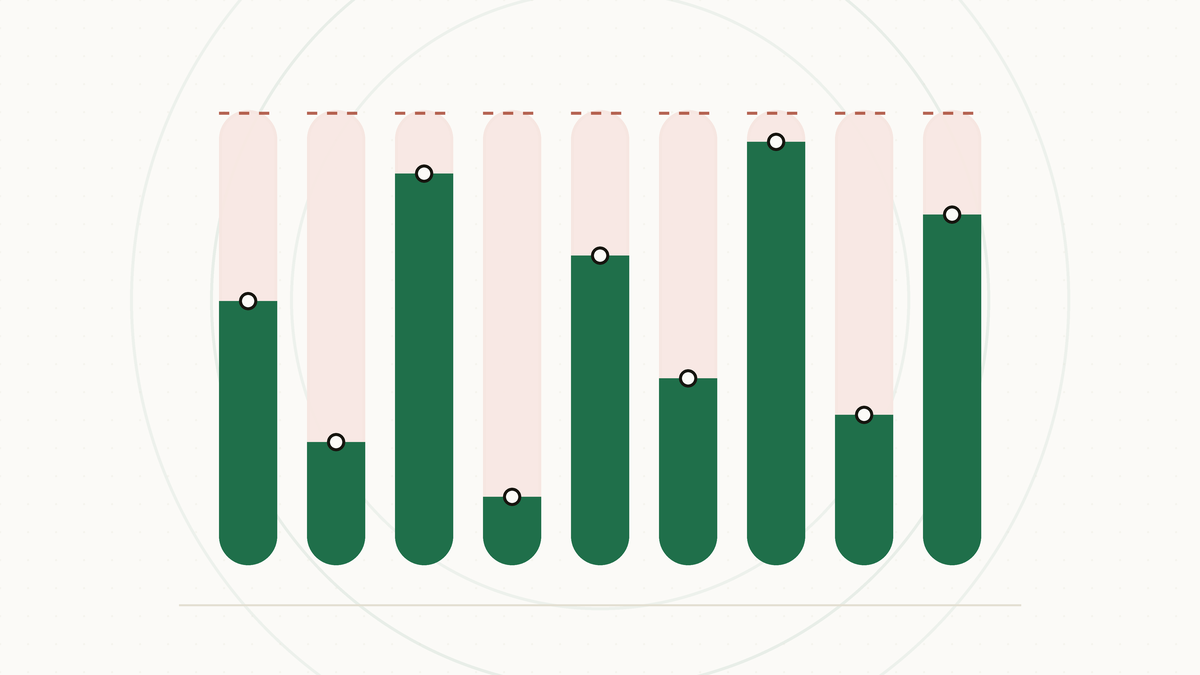
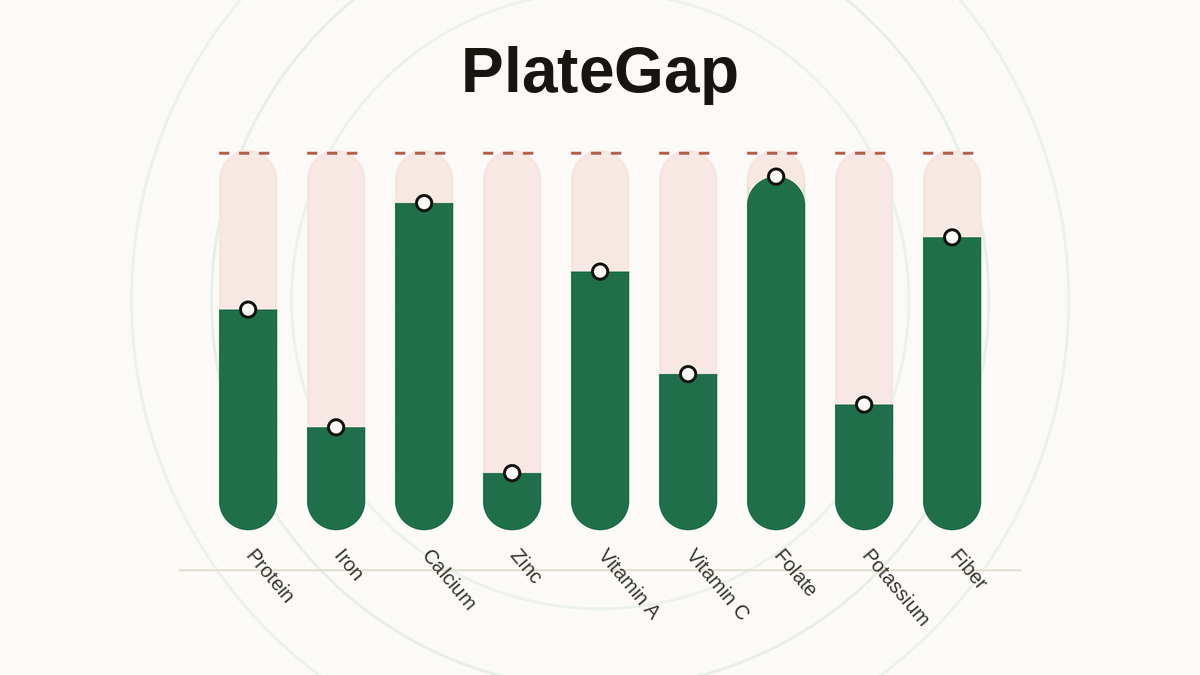
Label the cover image with the product name and nutrient names
The bars-only cover read as an abstract chart with no context. Adds
"PlateGap" as a title and a nutrient name under each bar. The
platform's no-text guidance targets SEO keyword-stuffed covers, not
chart labels, so this stays minimal: one title, nine short labels.

diff --git a/scripts/generate_cover.py b/scripts/generate_cover.py
@@ -1,17 +1,22 @@
 """Generate the Builder Center cover image for PlateGap.
 
-No text (the platform discourages it). The idea, drawn instead of stated: a
-row of nutrient meters, each filled to what the menu actually provides, with
-the shortfall to target shown as an open gap -- literally the product. Colors
-are pulled straight from web/style.css so the cover matches the live app.
+Minimal text only: the product name and the nutrient each bar stands for,
+so the graphic reads on its own instead of looking like an abstract bar
+chart. The platform's no-text guidance is about SEO keyword-stuffed covers,
+not labeling a chart. Colors are pulled straight from web/style.css so the
+cover matches the live app.
 """
 
 import pathlib
 import random
 
-from PIL import Image, ImageDraw
+from PIL import Image, ImageDraw, ImageFont
 
 random.seed(7)
+
+FONT_DIR = pathlib.Path("/usr/share/fonts/truetype/liberation")
+F_TITLE = ImageFont.truetype(str(FONT_DIR / "LiberationSans-Bold.ttf"), 64)
+F_NUT = ImageFont.truetype(str(FONT_DIR / "LiberationSans-Regular.ttf"), 20)
 
 W, H = 1200, 675
 SCALE = 4  # supersample then downsize for clean anti-aliasing
@@ -52,15 +57,15 @@ for gx in range(0, W, 28):
 # margin where the next unit gets expensive (the shadow price idea).
 
 bars = [
-    {"met": 0.58},
-    {"met": 0.27},
-    {"met": 0.86},
-    {"met": 0.15},
-    {"met": 0.68},
-    {"met": 0.41},
-    {"met": 0.93},
-    {"met": 0.33},
-    {"met": 0.77},
+    {"met": 0.58, "label": "Protein"},
+    {"met": 0.27, "label": "Iron"},
+    {"met": 0.86, "label": "Calcium"},
+    {"met": 0.15, "label": "Zinc"},
+    {"met": 0.68, "label": "Vitamin A"},
+    {"met": 0.41, "label": "Vitamin C"},
+    {"met": 0.93, "label": "Folate"},
+    {"met": 0.33, "label": "Potassium"},
+    {"met": 0.77, "label": "Fiber"},
 ]
 
 n = len(bars)
@@ -68,8 +73,8 @@ bar_w = 58
 gap_w = 30
 total_w = n * bar_w + (n - 1) * gap_w
 start_x = (W - total_w) // 2
-base_y = 565
-top_y = 110
+base_y = 530
+top_y = 150
 max_h = base_y - top_y
 radius = bar_w // 2
 
@@ -132,6 +137,10 @@ for i, b in enumerate(bars):
         width=s(3),
     )
 
+    # Nutrient label, rotated to fit the narrow column, drawn at full scale
+    # (not supersampled) and composited after downsizing so it stays crisp.
+    b["label_xy"] = (x0 + bar_w / 2, base_y + 60)
+
 # --- A faint baseline, like a table rule ------------------------------------
 draw.line(
     [s(start_x - 40), s(base_y + 40), s(start_x + total_w + 40), s(base_y + 40)],
@@ -139,8 +148,24 @@ draw.line(
     width=s(2),
 )
 
-# Downsample for clean edges.
-img = img.resize((W, H), Image.LANCZOS)
+# Downsample for clean edges, then composite crisp (non-supersampled) text.
+img = img.resize((W, H), Image.LANCZOS).convert("RGBA")
+overlay = Image.new("RGBA", (W, H), (0, 0, 0, 0))
+odraw = ImageDraw.Draw(overlay)
+
+title = "PlateGap"
+tw = odraw.textlength(title, font=F_TITLE)
+odraw.text(((W - tw) / 2, 34), title, font=F_TITLE, fill=(*INK, 255))
+
+for b in bars:
+    tmp = Image.new("RGBA", (140, 40), (0, 0, 0, 0))
+    tdraw = ImageDraw.Draw(tmp)
+    tdraw.text((0, 0), b["label"], font=F_NUT, fill=(*INK, 210))
+    rotated = tmp.rotate(-50, expand=True, resample=Image.BICUBIC)
+    lx, ly = b["label_xy"]
+    overlay.alpha_composite(rotated, (int(lx - rotated.width * 0.15), int(ly - rotated.height * 0.35)))
+
+img = Image.alpha_composite(img, overlay).convert("RGB")
 out = pathlib.Path(__file__).resolve().parent.parent / "docs" / "hackathon" / "cover.png"
 img.save(out, "PNG", optimize=True)
 print("wrote", out, img.size)
